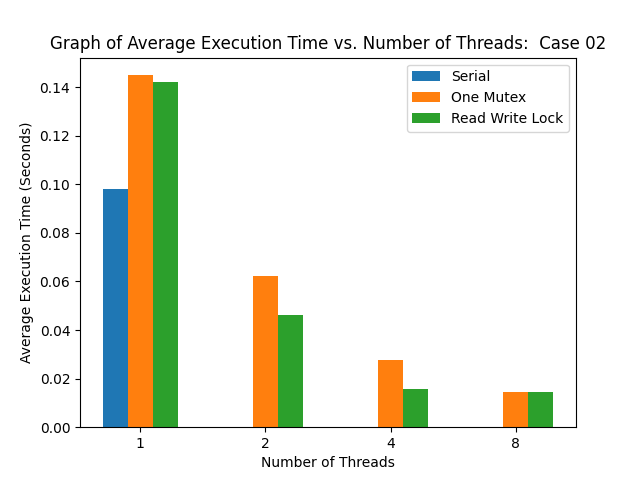
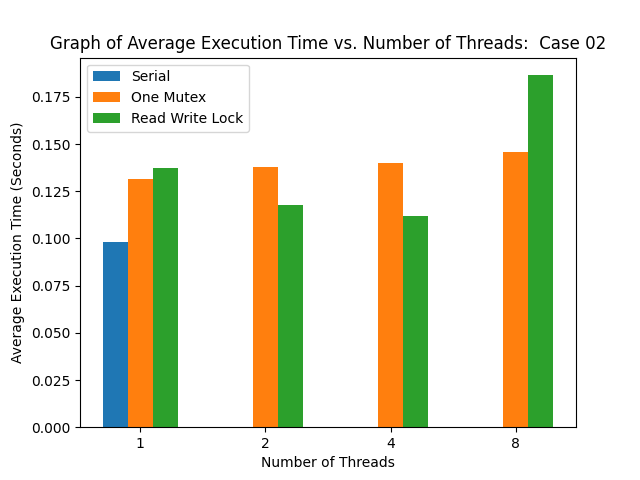
Modified the graphs according to the final changes

diff --git a/graph.py b/graph.py
@@ -2,9 +2,9 @@ import matplotlib.pyplot as plt
 import numpy as np
 
 X = ['1','2','4','8']
-serial = [0.098149,0,0,0]
-one_mutex = [0.144952, 0.062469, 0.027505, 0.014296]
-read_write_lock = [0.142103,0.046387,0.015754,0.014394]
+serial = [0.148263,0,0,0]
+one_mutex = [0.198891,0.206902,0.212567,0.218792]
+read_write_lock = [0.204849,0.176875,0.188650,0.267402]
 
 X_axis = np.arange(len(X))
 
@@ -15,7 +15,7 @@ plt.bar(X_axis + 0.2, read_write_lock, 0.2, label = 'Read Write Lock')
 plt.xticks(X_axis, X)
 plt.xlabel('Number of Threads', fontsize = 10)
 plt.ylabel('Average Execution Time (Seconds)', fontsize = 10)
-plt.title('Graph of Average Execution Time vs. Number of Threads:  Case 02', fontsize = 12)
+plt.title('Graph of Average Execution Time vs. Number of Threads:  Case 03', fontsize = 12)
 plt.legend()
-plt.savefig('graphs/Case 02/Case 02.png')
+plt.savefig('graphs/Case 03/Case 03.png')
 plt.show()

diff --git a/one_mutex_lock.c b/one_mutex_lock.c
@@ -136,7 +136,7 @@ int main() {
             operationsArray = malloc(sizeof(int) * m);
             setOrderOfOperations(memberOperations, insertOperations, deleteOperations, operationsArray);
 
-            int threadCount = 4;
+            int threadCount = 2;
             int threadOperations = m;
             clock_t start, end;
             double execution_time;
